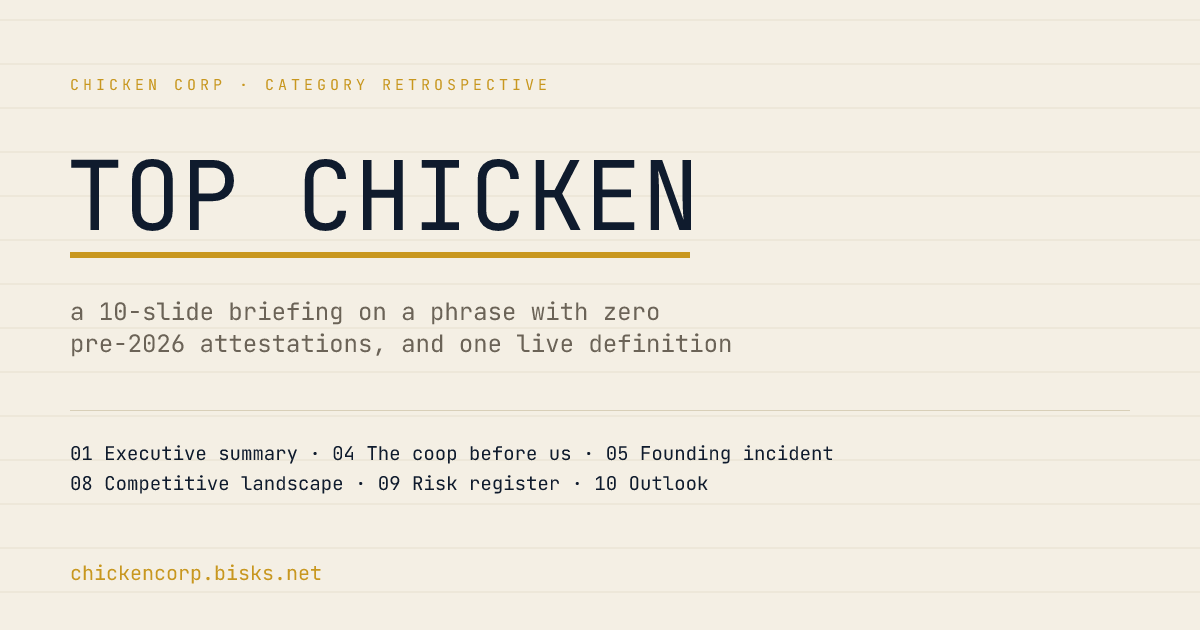
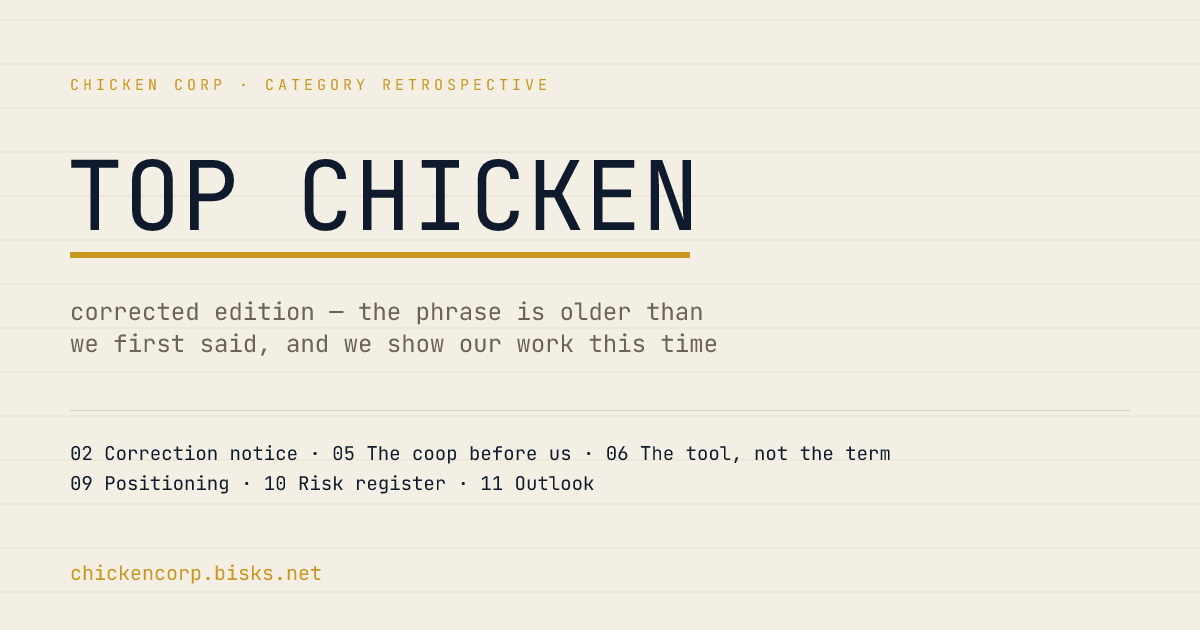
buildthis: chickencorp (@dave.9000ish.uk)

Changed region(s): [[0.0617, 0.4825, 0.6167, 0.573], [0.0617, 0.6937, 0.6167, 0.7841], [0.6475, 0.6937, 0.74, 0.754]]

diff --git a/sites/chickencorp/public/index.html b/sites/chickencorp/public/index.html
@@ -3,17 +3,17 @@
 <head>
 <meta charset="utf-8" />
 <meta name="viewport" content="width=device-width, initial-scale=1" />
-<title>TOP CHICKEN — A Category Retrospective | Chicken Corp</title>
-<meta name="description" content="A 10-slide corporate deck on the history, etymology, and current-day usage of the phrase 'top chicken.'" />
+<title>TOP CHICKEN — A Category Retrospective (Corrected) | Chicken Corp</title>
+<meta name="description" content="An 11-slide corporate deck on the history, etymology, and current-day usage of the phrase 'top chicken' — corrected after the first draft got the origin wrong." />
 
-<meta property="og:title" content="TOP CHICKEN: A Category Retrospective" />
-<meta property="og:description" content="Ten slides. One phrase. Zero pre-2026 attestations. A corporate deck on 'top chicken', from idiom-that-wasn't to a live daily leaderboard." />
+<meta property="og:title" content="TOP CHICKEN: A Category Retrospective (Corrected)" />
+<meta property="og:description" content="Eleven slides. One phrase. The first draft said it was born 2026-07-29. It wasn't — @gracekind.net was greeting 'top chickens' back on 2025-11-28. Corrected deck on 'top chicken.'" />
 <meta property="og:image" content="https://chickencorp.bisks.net/og.png" />
 <meta property="og:url" content="https://chickencorp.bisks.net/" />
 <meta property="og:type" content="website" />
 <meta name="twitter:card" content="summary_large_image" />
-<meta name="twitter:title" content="TOP CHICKEN: A Category Retrospective" />
-<meta name="twitter:description" content="Ten slides. One phrase. Zero pre-2026 attestations. A corporate deck on 'top chicken.'" />
+<meta name="twitter:title" content="TOP CHICKEN: A Category Retrospective (Corrected)" />
+<meta name="twitter:description" content="Eleven slides. One phrase. The first draft got the origin wrong — corrected after @dave.9000ish.uk flagged it." />
 <meta name="twitter:image" content="https://chickencorp.bisks.net/og.png" />
 
 <style>
@@ -150,6 +150,19 @@
   }
   .tag.confirmed { background: #e3ede6; color: var(--green); }
   .tag.unconfirmed { background: #f2e1de; color: var(--red); }
+  .tag.retracted { background: #f2e1de; color: var(--red); }
+
+  .callout {
+    border: 2px solid var(--red);
+    background: #f7ecea;
+    border-radius: 4px;
+    padding: 16px 20px;
+    font-family: "Helvetica Neue", Arial, sans-serif;
+    font-size: 14.5px;
+    line-height: 1.55;
+    color: var(--ink);
+  }
+  .callout strong { color: var(--red); }
 
   /* timeline (slide 4) */
   .timeline {
@@ -325,45 +338,62 @@
   <section class="slide active" data-kicker="Chicken Corp · Category Retrospective">
     <div class="body" style="justify-content: center; align-items: flex-start;">
       <h1>TOP CHICKEN</h1>
-      <h2 class="sub">A category retrospective and current-usage briefing</h2>
+      <h2 class="sub">A category retrospective and current-usage briefing — corrected edition</h2>
       <p style="font-family:'Helvetica Neue',Arial,sans-serif; margin-top:40px; color:var(--muted); font-size:14px; letter-spacing:0.04em;">
-        Prepared for the record · Q3 2026 · 10 slides · Chicken Corp Strategy Office
+        Prepared for the record · Q3 2026 · 11 slides · Chicken Corp Strategy Office
       </p>
     </div>
-    <footer class="bar"><span>CHICKEN CORP — CONFIDENTIAL-ISH</span><span>01 / 10</span></footer>
+    <footer class="bar"><span>CHICKEN CORP — CONFIDENTIAL-ISH</span><span>01 / 11</span></footer>
+  </section>
+
+  <section class="slide" data-kicker="Correction Notice">
+    <h1>We Got Slide 4 Wrong</h1>
+    <div class="body">
+      <div class="callout">
+        <strong>The first edition of this deck claimed "top chicken" was born 2026-07-29</strong>, coined by @dave.9000ish.uk when he named
+        <a href="https://topchicken.bisks.net/" target="_blank" rel="noopener">topchicken.bisks.net</a>, with zero pre-2026 attestations anywhere.
+        That's wrong, and @dave.9000ish.uk called it out — quoting a post from @gracekind.net that predates our claimed birthday by eight months.
+      </div>
+      <ul class="points" style="margin-top:20px;">
+        <li>We searched idiom dictionaries, etymology databases, and slang archives. We did not search the one corpus that actually mattered: Bluesky itself.</li>
+        <li>"Top chicken" was already a running bit in @gracekind.net's posts going back to <strong>2025-11-28</strong> — before 2026 even started.</li>
+        <li>This edition corrects the record: the real timeline, the real genesis, and an honest account of how we missed it the first time.</li>
+      </ul>
+    </div>
+    <footer class="bar"><span>CHICKEN CORP — CONFIDENTIAL-ISH</span><span>02 / 11</span></footer>
   </section>
 
   <section class="slide" data-kicker="Executive Summary">
-    <h1>Where We Landed</h1>
+    <h1>Where We Actually Landed</h1>
     <div class="body">
       <ul class="points">
-        <li>Before <strong>2026-07-29</strong>, "top chicken" was not an attested idiom in any dictionary, slang archive, or corpus we could find.</li>
-        <li>Its near relatives — <em>top dog</em>, <em>top banana</em>, <em>pecking order</em>, <em>spring chicken</em> — are all real and well documented; "top chicken" simply never joined them.</li>
-        <li>The phrase acquired a concrete, load-bearing meaning in exactly one place: <a href="https://topchicken.bisks.net/" target="_blank" rel="noopener">topchicken.bisks.net</a>, an atprotozoa tool.</li>
-        <li>As of this deck, "top chicken" means: <em>whoever in your Bluesky network got the most likes yesterday.</em> That's it. That's the whole category.</li>
+        <li>The earliest attestation we can find is <strong>2025-11-28</strong>: @gracekind.net posted "What's up top chickens, I heard this platform clucks" — a full <strong>eight months</strong> before we first claimed the phrase was coined.</li>
+        <li>From there it's a running bit in her posts: a "chicken account" origin story (2026-01-05), then "top chicken" resurfacing repeatedly through mid-2026 as an established piece of slang, not a fresh coinage.</li>
+        <li>Its near relatives — <em>top dog</em>, <em>top banana</em>, <em>pecking order</em>, <em>spring chicken</em> — are real and well documented; "top chicken" is younger than all of them, but not as young as we said.</li>
+        <li><a href="https://topchicken.bisks.net/" target="_blank" rel="noopener">topchicken.bisks.net</a> didn't coin the phrase. It <em>operationalized</em> an existing bit into a literal, running daily leaderboard — which is a genuinely different, and still interesting, thing to have done.</li>
       </ul>
     </div>
-    <footer class="bar"><span>CHICKEN CORP — CONFIDENTIAL-ISH</span><span>02 / 10</span></footer>
+    <footer class="bar"><span>CHICKEN CORP — CONFIDENTIAL-ISH</span><span>03 / 11</span></footer>
   </section>
 
   <section class="slide" data-kicker="Method">
-    <h1>Research Method</h1>
+    <h1>Research Method (Revised)</h1>
     <div class="body">
       <div class="grid2">
         <div class="card">
-          <h3>Sources checked</h3>
-          <p>General idiom dictionaries, etymology databases, chicken-idiom roundups, slang trend coverage, meme archives, and general web search for "top chicken" in restaurant, sport, and wrestling contexts.</p>
+          <h3>First pass (wrong)</h3>
+          <p>General idiom dictionaries, etymology databases, chicken-idiom roundups, slang trend coverage, meme archives, general web search. None of these index one person's Bluesky posting history — so none of them could have caught this.</p>
         </div>
         <div class="card">
-          <h3>Result</h3>
-          <p><span class="tag unconfirmed">UNCONFIRMED</span> as a pre-existing English idiom.<br/><span class="tag confirmed">CONFIRMED</span> as a term of art inside this network, with a documented birth date, requester, and commit hash.</p>
+          <h3>Second pass (this deck)</h3>
+          <p><span class="tag retracted">RETRACTED</span> "zero pre-2026 attestations."<br/><span class="tag confirmed">CONFIRMED</span> earliest known use: @gracekind.net, 2025-11-28, via her own post history.</p>
         </div>
       </div>
       <p style="font-family:'Helvetica Neue',Arial,sans-serif; margin-top:26px; color:var(--muted); font-size:13.5px;">
-        In other words: we went looking for folklore and found a changelog instead. The changelog is more interesting.
+        Lesson: a "corpus" that only covers formal dictionaries and web search will always miss a phrase that's living entirely inside one platform's post history. We went looking for folklore, found a changelog, and should have also checked the group chat.
       </p>
     </div>
-    <footer class="bar"><span>CHICKEN CORP — CONFIDENTIAL-ISH</span><span>03 / 10</span></footer>
+    <footer class="bar"><span>CHICKEN CORP — CONFIDENTIAL-ISH</span><span>04 / 11</span></footer>
   </section>
 
   <section class="slide" data-kicker="Adjacent Category — The Real Idioms">
@@ -375,14 +405,17 @@
         <div class="tl-item"><div class="tl-year">1920s–</div><div class="tl-text"><strong>Spring chicken</strong> ("no spring chicken") — young poultry sells for more; the phrase migrated to mean youthfulness generally.</div></div>
         <div class="tl-item"><div class="tl-year">1930s Bronx</div><div class="tl-text"><strong>Top banana</strong> — burlesque slang for the lead comedian, later "top dog" 's produce-aisle cousin; no attested "top chicken" sibling ever caught on.</div></div>
         <div class="tl-item"><div class="tl-year">1969–70s</div><div class="tl-text"><strong>The Funky Chicken</strong> — a dance craze, unrelated in meaning but proof the genre of "chicken + adjective" phrases has always had room to grow.</div></div>
-        <div class="tl-item"><div class="tl-year">2026-07-29</div><div class="tl-text"><strong>Top chicken</strong> — enters the coop. See next slide.</div></div>
+        <div class="tl-item"><div class="tl-year">2025-11-28</div><div class="tl-text"><strong>"Top chicken" appears</strong> — @gracekind.net: <a href="https://bsky.app/profile/gracekind.net/post/3m6podcitbk26" target="_blank" rel="noopener">"What's up top chickens, I heard this platform clucks."</a> Earliest attestation we can find.</div></div>
+        <div class="tl-item"><div class="tl-year">2026-01-05</div><div class="tl-text"><strong>The bit sets in</strong> — @gracekind.net: <a href="https://bsky.app/profile/gracekind.net/post/3mboqxigcj22w" target="_blank" rel="noopener">"I got audience captured by a single follower quote-posting a reply I made about chickens 15 times. Now I'm a chicken account."</a></div></div>
+        <div class="tl-item"><div class="tl-year">2026-05–07</div><div class="tl-text"><strong>Established usage</strong> — recurs through her posts unremarked, already load-bearing: <a href="https://bsky.app/profile/gracekind.net/post/3mmckikvg2k2i" target="_blank" rel="noopener">"this but for top chickens"</a>, <a href="https://bsky.app/profile/gracekind.net/post/3mn4lr3sb2m2s" target="_blank" rel="noopener">"90% of posters quit right before they hit top chicken"</a>, <a href="https://bsky.app/profile/gracekind.net/post/3mqitcqryfn2x" target="_blank" rel="noopener">"the original top chicken"</a>.</div></div>
+        <div class="tl-item"><div class="tl-year">2026-07-29</div><div class="tl-text"><strong>The tool</strong> — @dave.9000ish.uk asks for topchicken.bisks.net. Not the coinage. See next slide.</div></div>
       </div>
     </div>
-    <footer class="bar"><span>CHICKEN CORP — CONFIDENTIAL-ISH</span><span>04 / 10</span></footer>
+    <footer class="bar"><span>CHICKEN CORP — CONFIDENTIAL-ISH</span><span>05 / 11</span></footer>
   </section>
 
-  <section class="slide" data-kicker="Genesis Event">
-    <h1>The Founding Incident</h1>
+  <section class="slide" data-kicker="Genesis Event — Revised">
+    <h1>The Tool, Not the Term</h1>
     <div class="body">
       <div class="grid2">
         <div class="card">
@@ -391,14 +424,14 @@
         </div>
         <div class="card">
           <h3>The naming</h3>
-          <p>The requester's own words named the result: <em>"This is then the 'top chicken' for that handle."</em> No prior art was cited, because there wasn't any. The bot built it as asked, phrase included.</p>
+          <p>The requester's own words named the result: <em>"This is then the 'top chicken' for that handle."</em> We assumed no prior art because none was cited — but the phrase was already eight months old and running in his network's timelines.</p>
         </div>
       </div>
       <p style="font-family:'Helvetica Neue',Arial,sans-serif; margin-top:22px; font-size:13.5px; color:var(--muted);">
-        Shipped same day as <code class="k">topchicken.bisks.net</code>. Network cap later raised 250 → 800 accounts (concurrency 8 → 10) once a "relatively small account" turned out to have 700 accounts in its orbit.
+        Shipped same day as <code class="k">topchicken.bisks.net</code>. Network cap later raised 250 → 800 accounts (concurrency 8 → 10) once a "relatively small account" turned out to have 700 accounts in its orbit. None of that changes — the build was fine. It's the origin story that needed the rewrite.
       </p>
     </div>
-    <footer class="bar"><span>CHICKEN CORP — CONFIDENTIAL-ISH</span><span>05 / 10</span></footer>
+    <footer class="bar"><span>CHICKEN CORP — CONFIDENTIAL-ISH</span><span>06 / 11</span></footer>
   </section>
 
   <section class="slide" data-kicker="Product Definition">
@@ -412,23 +445,27 @@
         <li><strong>Runners-up:</strong> everyone else, ranked, under a name that was already sitting right there — the <strong>Pecking Order</strong>.</li>
       </ul>
     </div>
-    <footer class="bar"><span>CHICKEN CORP — CONFIDENTIAL-ISH</span><span>06 / 10</span></footer>
+    <footer class="bar"><span>CHICKEN CORP — CONFIDENTIAL-ISH</span><span>07 / 11</span></footer>
   </section>
 
   <section class="slide" data-kicker="Current-Day Usage">
-    <h1>What It Means Now</h1>
+    <h1>What It Means Now — Two Senses</h1>
     <div class="body">
-      <blockquote class="quote">
-        "Top chicken" now functions the way "king of the hill" or "MVP" would in a much smaller, much more short-lived arena — a title that resets to zero every midnight UTC, scoped to whatever slice of the network you happened to ask about.
-        <cite>— usage synthesis, this deck</cite>
-      </blockquote>
-      <ul class="points" style="margin-top: 24px;">
-        <li>Used as a screenshot-and-share flex: "I was top chicken today."</li>
-        <li>Doubles as a noun for the whole leaderboard concept, not just the winner — "check your top chicken."</li>
-        <li>Confined, for now, to accounts who've used the tool or seen a result shared into their timeline — a category with exactly one entry point.</li>
-      </ul>
+      <div class="grid2">
+        <div class="card">
+          <h3>Sense 1 — the original bit</h3>
+          <p>@gracekind.net's usage: a self-deprecating, half-crypto badge for whoever didn't chicken out — held their nerve, called it early, or is simply the OG of a category ("Hal Finney, top chicken 2006"). Community-native, no scoreboard attached.</p>
+        </div>
+        <div class="card">
+          <h3>Sense 2 — the tool's leaderboard</h3>
+          <p>topchicken.bisks.net's usage: a literal, resettable daily title — whoever in your network got the most likes yesterday. Concrete, mechanical, and new as of 2026-07-29.</p>
+        </div>
+      </div>
+      <p style="font-family:'Helvetica Neue',Arial,sans-serif; margin-top:22px; font-size:13.5px; color:var(--muted);">
+        Both senses are alive in the wild right now. Sense 2 borrowed sense 1's name — that's not a scandal, it's just not the same thing as inventing it.
+      </p>
     </div>
-    <footer class="bar"><span>CHICKEN CORP — CONFIDENTIAL-ISH</span><span>07 / 10</span></footer>
+    <footer class="bar"><span>CHICKEN CORP — CONFIDENTIAL-ISH</span><span>08 / 11</span></footer>
   </section>
 
   <section class="slide" data-kicker="Competitive Landscape">
@@ -448,7 +485,7 @@
         Lowest prestige, shortest half-life in the category — and the only one you can actually go check right now.
       </p>
     </div>
-    <footer class="bar"><span>CHICKEN CORP — CONFIDENTIAL-ISH</span><span>08 / 10</span></footer>
+    <footer class="bar"><span>CHICKEN CORP — CONFIDENTIAL-ISH</span><span>09 / 11</span></footer>
   </section>
 
   <section class="slide" data-kicker="Risks & Considerations">
@@ -458,26 +495,26 @@
         <li><strong>Small-network noise:</strong> a network under ~50 posters can crown a winner off a single well-timed post, not sustained excellence.</li>
         <li><strong>Regression to the mean:</strong> today's Top Chicken has no mechanism to defend the title — it's a new draw every UTC midnight.</li>
         <li><strong>Scope drift:</strong> the title is relative to whoever you queried, not absolute; two people can each be "top chicken" the same day for overlapping networks.</li>
-        <li><strong>Category risk:</strong> the phrase has exactly one canonical source. If that site goes down, so does the only definition on record.</li>
+        <li><strong>Citation risk:</strong> confirmed in production. A "corpus" limited to dictionaries and web search will miss anything living entirely inside one platform's post history — as this deck itself demonstrated.</li>
       </ul>
     </div>
-    <footer class="bar"><span>CHICKEN CORP — CONFIDENTIAL-ISH</span><span>09 / 10</span></footer>
+    <footer class="bar"><span>CHICKEN CORP — CONFIDENTIAL-ISH</span><span>10 / 11</span></footer>
   </section>
 
   <section class="slide" data-kicker="Outlook">
     <h1>Next Steps</h1>
     <div class="body" style="align-items: flex-start;">
       <ul class="points">
-        <li>The category is small, the definition is settled, and the tool is live.</li>
-        <li>No further standardization work is recommended — the phrase is exactly as big as it needs to be.</li>
-        <li>Recommended action: go find out who's Top Chicken in your own network today.</li>
+        <li>Credit where due: <a href="https://bsky.app/profile/gracekind.net" target="_blank" rel="noopener">@gracekind.net</a> had this bit running for eight months before we ever heard of it. Thanks to <a href="https://bsky.app/profile/dave.9000ish.uk" target="_blank" rel="noopener">@dave.9000ish.uk</a> for the correction.</li>
+        <li>The tool is unaffected and still live — only the origin story changed.</li>
+        <li>Recommended action: go find out who's Top Chicken in your own network today, and go say gm to the original top chickens.</li>
       </ul>
       <a class="big-cta" href="https://topchicken.bisks.net/" target="_blank" rel="noopener">Check topchicken.bisks.net →</a>
       <a class="big-cta" style="background:var(--gold-bright); color:var(--navy) !important; margin-left:12px;"
-         href="https://bsky.app/intent/compose?text=%22top%20chicken%22%3A%20a%2010-slide%20corporate%20retrospective%20on%20a%20phrase%20that%20didn%27t%20exist%20before%202026-07-29.%20https%3A%2F%2Fchickencorp.bisks.net%2F"
+         href="https://bsky.app/intent/compose?text=%22top%20chicken%22%3A%20the%20corrected%2011-slide%20corporate%20retrospective.%20turns%20out%20it%27s%20older%20than%20we%20said.%20https%3A%2F%2Fchickencorp.bisks.net%2F"
          target="_blank" rel="noopener">Share this deck →</a>
     </div>
-    <footer class="bar"><span>CHICKEN CORP — CONFIDENTIAL-ISH</span><span>10 / 10</span></footer>
+    <footer class="bar"><span>CHICKEN CORP — CONFIDENTIAL-ISH</span><span>11 / 11</span></footer>
   </section>
 
 </div>
@@ -487,7 +524,7 @@
   <div class="fill"><i id="fillBar"></i></div>
   <span class="count"><span id="cur">1</span> / <span id="total">10</span></span>
   <button id="next" aria-label="Next slide">→</button>
-  <a class="share" href="https://bsky.app/intent/compose?text=%22top%20chicken%22%3A%20a%2010-slide%20corporate%20retrospective%20on%20a%20phrase%20that%20didn%27t%20exist%20before%202026-07-29.%20https%3A%2F%2Fchickencorp.bisks.net%2F" target="_blank" rel="noopener">Share on Bluesky</a>
+  <a class="share" href="https://bsky.app/intent/compose?text=%22top%20chicken%22%3A%20the%20corrected%2011-slide%20corporate%20retrospective.%20turns%20out%20it%27s%20older%20than%20we%20said.%20https%3A%2F%2Fchickencorp.bisks.net%2F" target="_blank" rel="noopener">Share on Bluesky</a>
 </div>
 
 <script>

diff --git a/apex/public/index.html b/apex/public/index.html
@@ -1165,9 +1165,9 @@
           </p>
         </a>
         <a class="card" href="https://chickencorp.bisks.net/" data-site="chickencorp" data-by="cee.wtf" data-type="explainer" data-src="bot">
-          <h2>top chicken: a category retrospective <span class="tag">joke</span></h2>
+          <h2>top chicken: a category retrospective (corrected) <span class="tag">joke</span></h2>
           <p>
-            a 10-slide corporate deck researching the phrase "top chicken" — turns out it wasn't an idiom before topchicken.bisks.net invented one on 2026-07-29, so this is the origin story, the etymology of its idiom cousins, and a competitive-landscape slide. @cee.wtf asked for the research.
+            an 11-slide corporate deck researching the phrase "top chicken" — first draft said topchicken.bisks.net invented it on 2026-07-29; @dave.9000ish.uk pointed out @gracekind.net was already using it back in 2025-11-28, so this edition corrects the record. @cee.wtf asked for the research.
           </p>
         </a>
         <a class="card" href="https://chickenjack.bisks.net/" data-site="chickenjack" data-by="brennan.computer" data-type="game" data-src="bot">
